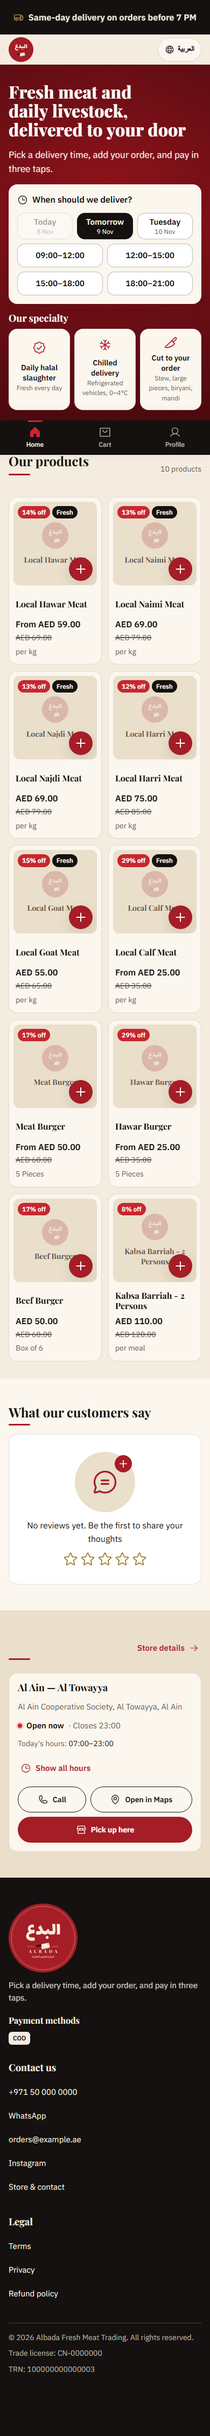
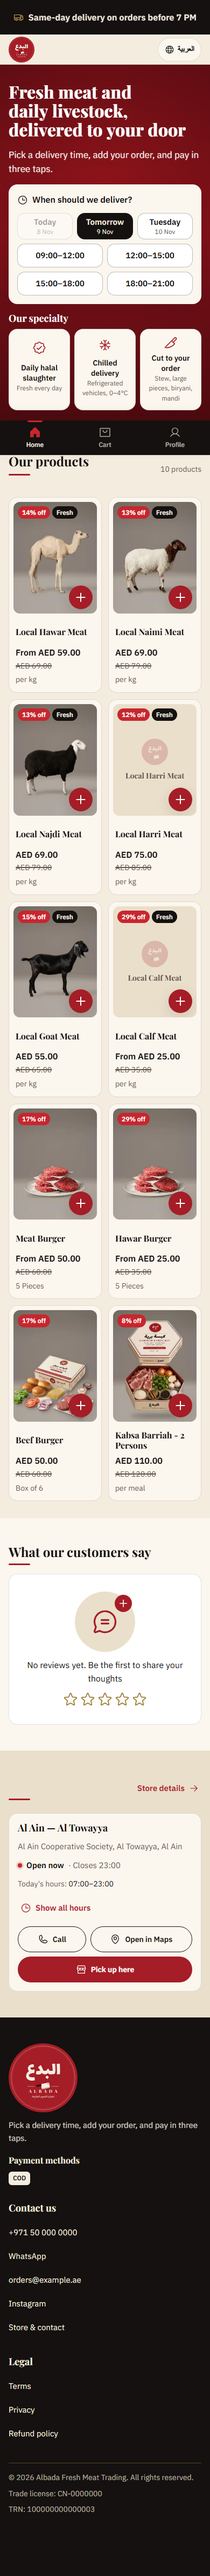
Product photos from Albada_Product_Images.pdf: 7 products photographed (hawar, naimi, najdi, goat, meat + hawar burger, beef burger kit, kabsa kit), 3:4 slots, alt text in both languages, product-page gallery for the beef burger kit; photos paint immediately (no fade) to keep CLS at 0

diff --git a/src/app/globals.css b/src/app/globals.css
@@ -360,7 +360,7 @@ html[lang='ar'] .hero h1 { min-height: 2.6em; }
 @media (min-width: 1100px) { .grid-all { grid-template-columns: repeat(5, minmax(0, 1fr)); } }
 .card { position: relative; display: flex; flex-direction: column; background: var(--surface); border-radius: var(--r-card); padding: var(--s2); border: 1px solid var(--line); transition: transform .15s var(--ease); }
 .card:active { transform: scale(.98); }
-.card .media { position: relative; aspect-ratio: 1; border-radius: var(--r-img); overflow: hidden; background: var(--deep); }
+.card .media { position: relative; aspect-ratio: 3 / 4; border-radius: var(--r-img); overflow: hidden; background: var(--deep); }
 .card .media .ph, .card .media img { transition: transform .3s var(--ease); }
 @media (hover: hover) { .card:hover .media .ph, .card:hover .media img { transform: scale(1.04); } }
 .card .badges { position: absolute; top: 8px; inset-inline-start: 8px; display: flex; gap: 4px; flex-wrap: wrap; z-index: 1; }
@@ -382,10 +382,11 @@ html[lang='ar'] .hero h1 { min-height: 2.6em; }
 .ph .ph-mark { width: 38%; max-width: 120px; aspect-ratio: 1; background: center / contain no-repeat; opacity: .2; }
 .ph.lg { font-size: clamp(18px, 3vw, 26px); }
 .ph.sm .ph-mark { display: none; }
-.img-load { position: absolute; inset: 0; }
-.img-load img { opacity: 0; transition: opacity .3s var(--ease); }
-.img-load.loaded img { opacity: 1; }
+/* Photos paint as soon as they arrive (no opacity fade — a fade-in counts as layout shift and hides content);
+   the shimmer sits BEHIND the photo while it loads. */
+.img-load { position: absolute; inset: 0; isolation: isolate; background: var(--deep); }
 .skeleton { background: var(--deep); position: relative; overflow: hidden; border-radius: var(--r-img); }
+.img-load:not(.loaded)::after { z-index: -1; }
 .skeleton::after, .img-load:not(.loaded)::after { content: ''; position: absolute; inset: 0; transform: translateX(-100%); background: linear-gradient(90deg, transparent, rgba(251, 246, 238, .6), transparent); animation: shimmer 1.4s infinite; }
 @keyframes shimmer { to { transform: translateX(100%); } }
 
@@ -394,7 +395,14 @@ html[lang='ar'] .hero h1 { min-height: 2.6em; }
 .breadcrumb a { text-decoration: none; display: inline-flex; align-items: center; min-height: var(--tap); min-width: var(--tap); }
 .breadcrumb a:hover { color: var(--red); }
 .pdp { display: grid; }
-.pdp-photo { position: relative; aspect-ratio: 1; background: var(--deep); overflow: hidden; }
+.pdp-photo { position: relative; aspect-ratio: 3 / 4; background: var(--deep); overflow: hidden; }
+.pdp-gallery { position: relative; }
+/* Thumbnails: over the bottom of the photo on phones (above the sheet's rounded top), a row below it on computers. */
+.pdp-thumbs { display: flex; gap: var(--s2); justify-content: center; }
+@media (max-width: 767px) { .pdp-thumbs { position: absolute; z-index: 2; inset-inline: 0; bottom: calc(var(--r-sheet) + 20px); } }
+.pdp-thumb { position: relative; width: 52px; aspect-ratio: 3 / 4; padding: 0; border-radius: 10px; overflow: hidden; border: 2px solid var(--surface); background: var(--deep); box-shadow: var(--shadow-float); cursor: pointer; }
+.pdp-thumb[aria-pressed='true'] { border-color: var(--red); }
+.pdp-thumb:focus-visible { outline: 2px solid var(--red); outline-offset: 2px; }
 .pdp-sheet { position: relative; z-index: 1; background: var(--surface); padding: var(--s5) var(--gutter) var(--s6); display: grid; gap: var(--s5); }
 @media (max-width: 899px) {
   .pdp { margin-inline: calc(var(--gutter) * -1); }
@@ -402,7 +410,8 @@ html[lang='ar'] .hero h1 { min-height: 2.6em; }
 }
 @media (min-width: 900px) {
   .pdp { grid-template-columns: 1fr 1fr; gap: var(--s7); align-items: start; padding-top: var(--s4); }
-  .pdp-photo { border-radius: var(--r-card); position: sticky; top: calc(var(--header-h) + 72px); }
+  .pdp-photo { border-radius: var(--r-card); }
+  .pdp-gallery { position: sticky; top: calc(var(--header-h) + 24px); display: grid; gap: var(--s3); }
   .pdp-sheet { border-radius: var(--r-card); padding: var(--s6); border: 1px solid var(--line); }
 }
 .illustrative { position: absolute; bottom: 10px; inset-inline-start: 10px; z-index: 1; }

diff --git a/src/components/ProductImage.tsx b/src/components/ProductImage.tsx
@@ -8,6 +8,15 @@ import manifest from '@/data/product-images.json';
 
 const available = new Set<string>(manifest.images);
 const illustrative = new Set<string>(manifest.illustrative);
+const alts = manifest.alt as Record<string, { ar: string; en: string }>;
+const galleries = manifest.gallery as Record<string, string[]>;
+
+/** Extra photos for the product page (main photo first). */
+export function galleryOf(p: Product): string[] {
+  const main = imageKey(p);
+  if (!main) return [];
+  return [main, ...(galleries[p.id] ?? []).filter((k) => available.has(k))];
+}
 
 /** Which image file to use: a per-option photo (e.g. hawar-local-boneless) if it exists, else the product photo. */
 export function imageKey(p: Product, sizeId?: string) {
@@ -20,16 +29,17 @@ export const isIllustrative = (p: Product, sizeId?: string) => {
 };
 
 /**
- * The one place product images are rendered: always a 1:1 slot from public/images/products/{id}.webp.
+ * The one place product images are rendered: always a 3:4 slot from public/images/products/{id}.webp
+ * (the shape of the client's photos).
  * Until a real photo exists: a neutral placeholder (beige deep, the logo mark at 20%, the product name).
  * Real photos show a beige shimmer until loaded; the slot size never changes (no layout shift).
  */
 export function ProductImage({
-  p, lang, sizes, priority, large, small, sizeId,
-}: { p: Product; lang: Lang; sizes: string; priority?: boolean; large?: boolean; small?: boolean; sizeId?: string }) {
+  p, lang, sizes, priority, large, small, sizeId, imageId,
+}: { p: Product; lang: Lang; sizes: string; priority?: boolean; large?: boolean; small?: boolean; sizeId?: string; imageId?: string }) {
   const [loaded, setLoaded] = useState(false);
-  const key = imageKey(p, sizeId);
-  const alt = p.image?.alt[lang] ?? p.name[lang];
+  const key = imageId && available.has(imageId) ? imageId : imageKey(p, sizeId);
+  const alt = (key && alts[key]?.[lang]) ?? p.image?.alt[lang] ?? p.name[lang];
   if (key) {
     return (
       <div className={`img-load${loaded ? ' loaded' : ''}`}>

diff --git a/src/components/ProductGallery.tsx b/src/components/ProductGallery.tsx
@@ -1,0 +1,33 @@
+'use client';
+/**
+ * Product page photo. When a product has more than one photo (e.g. the beef burger kit: closed, open, ingredients),
+ * small thumbnails under it switch the big photo. One photo → just the photo.
+ */
+import { useState } from 'react';
+import type { Lang } from '@/config/site';
+import type { Product } from '@/data/catalog';
+import { galleryOf, ProductImage } from './ProductImage';
+import { useStore } from './StoreProvider';
+
+export function ProductGallery({ p, lang }: { p: Product; lang: Lang }) {
+  const { t } = useStore();
+  const photos = galleryOf(p);
+  const [current, setCurrent] = useState(photos[0]);
+  return (
+    <div className="pdp-gallery">
+      <div className="pdp-photo">
+        <ProductImage p={p} lang={lang} sizes="(min-width: 900px) 50vw, 100vw" priority large imageId={current} />
+      </div>
+      {photos.length > 1 && (
+        <div className="pdp-thumbs" role="group" aria-label={t.photos}>
+          {photos.map((k, i) => (
+            <button key={k} type="button" className="pdp-thumb" aria-pressed={k === current} aria-label={t.photoN(i + 1, photos.length)}
+              onClick={() => setCurrent(k)} data-testid="gallery-thumb">
+              <ProductImage p={p} lang={lang} sizes="96px" imageId={k} small />
+            </button>
+          ))}
+        </div>
+      )}
+    </div>
+  );
+}

diff --git a/src/app/[lang]/product/[id]/page.tsx b/src/app/[lang]/product/[id]/page.tsx
@@ -7,7 +7,7 @@ import { Reveal, SectionTitle } from '@/components/Motion';
 import { ProductReviews } from '@/components/ProductReviews';
 import { ProductCard } from '@/components/ProductCard';
 import { ProductConfigurator } from '@/components/ProductConfigurator';
-import { ProductImage } from '@/components/ProductImage';
+import { ProductGallery } from '@/components/ProductGallery';
 import { SiteHeader } from '@/components/SiteHeader';
 import { getDict } from '@/lib/i18n';
 import { alternates } from '@/lib/seo';
@@ -68,9 +68,7 @@ export default async function ProductPage({ params }: { params: Params }) {
           <span aria-current="page">{p.name[lang]}</span>
         </nav>
         <div className="pdp">
-          <div className="pdp-photo">
-            <ProductImage p={p} lang={lang} sizes="(min-width: 900px) 50vw, 100vw" priority large />
-          </div>
+          <ProductGallery p={p} lang={lang} />
           <ProductConfigurator p={p} />
         </div>
 

diff --git a/src/lib/i18n.ts b/src/lib/i18n.ts
@@ -36,6 +36,8 @@ const ar = {
   // hero
   heroTitle: 'لحوم طازجة وذبائح يومية، توصل لبابك',
   ourSpecialty: 'تميّزنا',
+  photos: 'صور المنتج',
+  photoN: (i: number, n: number) => `صورة ${i} من ${n}`,
   ourProducts: 'منتجاتنا',
   notFoundTitle: 'الصفحة غير موجودة',
   notFoundText: 'ربما تغيّر الرابط أو انتهى العرض. منتجاتنا كلها في الصفحة الرئيسية.',
@@ -420,6 +422,8 @@ const en: Dict = {
 
   heroTitle: 'Fresh meat and daily livestock, delivered to your door',
   ourSpecialty: 'Our specialty',
+  photos: 'Product photos',
+  photoN: (i: number, n: number) => `Photo ${i} of ${n}`,
   ourProducts: 'Our products',
   notFoundTitle: 'Page not found',
   notFoundText: 'The link may have changed or the offer has ended. All our products are on the home page.',
